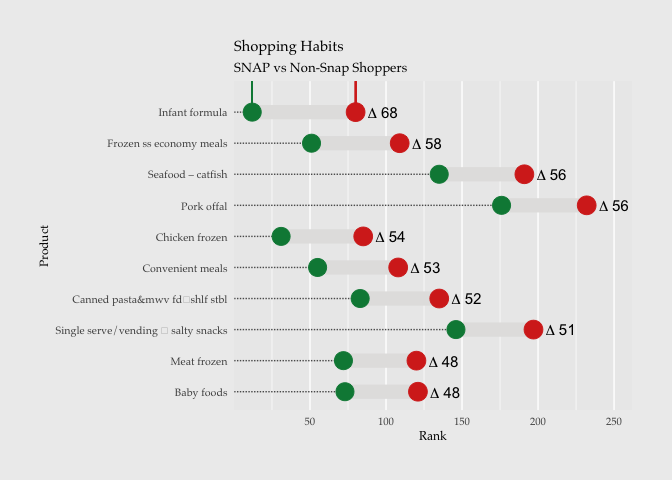
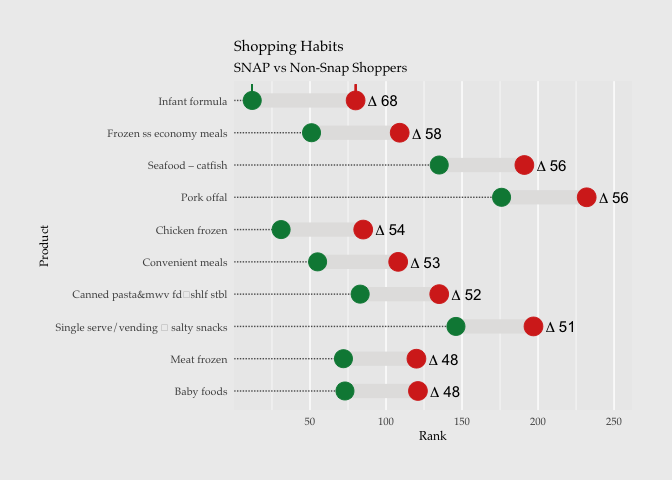
fix tick marks

diff --git a/README.md b/README.md
@@ -70,12 +70,12 @@ useful/curious datasets.
     g <-  g + geom_segment(aes(x = snap_rank[1], 
                     xend = snap_rank[1] , 
                     y = 10.1, 
-                    yend = 11),
+                    yend = 10.5),
                     colour = '#008744')  
     g <-  g + geom_segment(aes(x = nonsnap_rank[1], 
                    xend = nonsnap_rank[1], 
                    y = 10.1, 
-                   yend = 11),
+                   yend = 10.5),
                    colour = '#d62d20')
     g <-  g + geom_text(aes(x = lab_x, y = lab_y, label = paste0("Delta~", "", labs), fontface = "plain"), parse = TRUE, size = 4)
     g <-  g + theme(plot.background=element_rect(fill = "grey93", colour = "grey93"))
